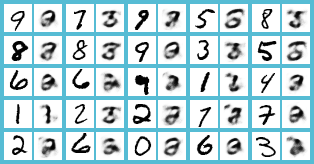
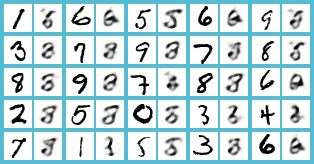
use means for dropped features

diff --git a/demo/mnist/reconstruct/main.go b/demo/mnist/reconstruct/main.go
@@ -11,6 +11,7 @@ import (
 
 	"github.com/unixpickle/autofunc"
 	"github.com/unixpickle/mnist"
+	"github.com/unixpickle/num-analysis/linalg"
 	"github.com/unixpickle/skewcoder"
 	"github.com/unixpickle/weakai/neuralnet"
 )
@@ -61,7 +62,10 @@ func insertDropLayer(net neuralnet.Network, keep map[int]bool) neuralnet.Network
 	if len(keep) == 0 {
 		return net
 	}
-	dropLayer := &FeatureDropper{Keep: keep}
+	dropLayer := &FeatureDropper{
+		Keep:  keep,
+		Means: meanFeatures(net),
+	}
 	for i, x := range net {
 		if _, ok := x.(*skewcoder.Reconstructor); ok {
 			net = append(net, nil)
@@ -72,6 +76,31 @@ func insertDropLayer(net neuralnet.Network, keep map[int]bool) neuralnet.Network
 	}
 	die("No reconstructor layer")
 	return nil
+}
+
+func meanFeatures(net neuralnet.Network) linalg.Vector {
+	samples := mnist.LoadTrainingDataSet()
+
+	var featureLayers neuralnet.Network
+	for i, x := range net {
+		if _, ok := x.(*skewcoder.Reconstructor); ok {
+			featureLayers = net[:i]
+			break
+		}
+	}
+
+	var sum linalg.Vector
+	inputs := samples.IntensityVectors()
+	for i := 0; i < 1000; i++ {
+		sample := inputs[rand.Intn(len(inputs))]
+		fv := featureLayers.Apply(&autofunc.Variable{Vector: sample}).Output()
+		if sum == nil {
+			sum = fv
+		} else {
+			sum.Add(fv)
+		}
+	}
+	return sum.Scale(1.0 / 1000)
 }
 
 func die(args ...interface{}) {

diff --git a/demo/mnist/reconstruct/dropper.go b/demo/mnist/reconstruct/dropper.go
@@ -8,28 +8,37 @@ import (
 )
 
 type FeatureDropper struct {
-	Keep map[int]bool
+	Keep  map[int]bool
+	Means linalg.Vector
 }
 
 func (f *FeatureDropper) Apply(in autofunc.Result) autofunc.Result {
 	mask := make(linalg.Vector, len(in.Output()))
+	means := make(linalg.Vector, len(in.Output()))
 	for x := range mask {
 		if f.Keep[x] {
 			mask[x] = 1
+		} else {
+			means[x] = f.Means[x]
 		}
 	}
-	return autofunc.Mul(&autofunc.Variable{Vector: mask}, in)
+	return autofunc.Add(autofunc.Mul(&autofunc.Variable{Vector: mask}, in),
+		&autofunc.Variable{Vector: means})
 }
 
 func (f *FeatureDropper) ApplyR(rv autofunc.RVector, in autofunc.RResult) autofunc.RResult {
 	mask := make(linalg.Vector, len(in.Output()))
+	means := make(linalg.Vector, len(in.Output()))
 	for x := range mask {
 		if f.Keep[x] {
 			mask[x] = 1
+		} else {
+			means[x] = f.Means[x]
 		}
 	}
 	maskVar := autofunc.NewRVariable(&autofunc.Variable{Vector: mask}, rv)
-	return autofunc.MulR(maskVar, in)
+	meanVar := autofunc.NewRVariable(&autofunc.Variable{Vector: means}, rv)
+	return autofunc.AddR(autofunc.MulR(maskVar, in), meanVar)
 }
 
 func (f *FeatureDropper) SerializerType() string {

diff --git a/README.md b/README.md
@@ -4,7 +4,7 @@ In a traditional neural auto-encoder, an input vector is compressed to a feature
 
 # How it works
 
-The idea is that an LSTM (or any RNN for that matter) learns to focus on recent inputs more than inputs in the distant past. As a result, feeding a large vector into an LSTM component-by-component naturally introduces a priority ordering: the inputs closer to the last input are the most "important" when we use the last timestep's output as the reconstruction vector.
+The idea is that an LSTM (or any RNN for that matter) learns to focus on recent inputs more than inputs in the distant past. As a result, feeding a large vector into an LSTM component-by-component naturally introduces a priority ordering: the inputs closer to the last input are the most "important" than the farther ones. We then use the output from the last time-step of the LSTM as the output from the skewed layer.
 
 # Results
 
@@ -12,7 +12,11 @@ I trained an auto-encoder that compresses 28x28 MNIST digits to vectors with 30-
 
 ![MNIST Reconstructions](demo/mnist/reconstruct/output.png)
 
-Since this auto-encoder is meant to skew priority towards the later features, I tried doing some reconstructions with features 20-29 only (zeroing the remaining features):
+Here is a neat animation of transitioning between digits in feature space:
+
+![Digit transitions](demo/mnist/transition/output.gif)
+
+Since this auto-encoder is meant to skew priority towards the later features, I tried doing some reconstructions with features 20-29 only (setting the remaining features to their means):
 
 ![MNIST Reconstructions 20-29](demo/mnist/reconstruct/output_20-29.png)
 
@@ -21,7 +25,3 @@ This still looks fairly good, even with 1/3 of the features. However, suppose we
 ![MNIST Reconstructions 0-9](demo/mnist/reconstruct/output_0-9.png)
 
 Clearly, features 0-9 are not as powerful as features 20-29. However, somehow all 30 features come together to form decent reconstructions.
-
-Here is a neat animation of transitioning between digits in feature space:
-
-![Digit transitions](demo/mnist/transition/output.gif)
